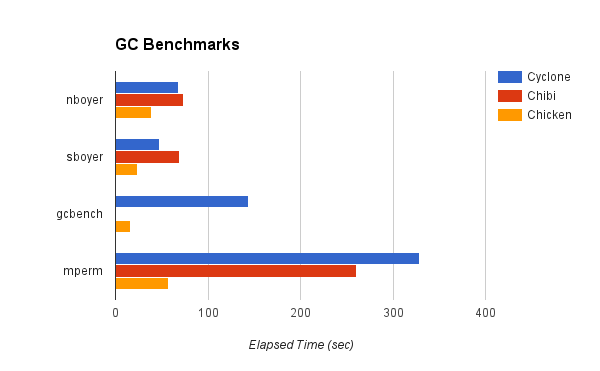
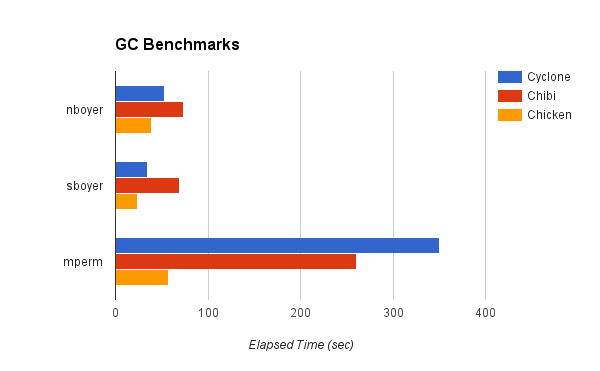
Updated benchmarks

Changed region(s): [[0.09, 0.593, 0.75, 0.8005], [0.09, 0.2075, 0.42, 0.5633], [0.09, 0.5633, 0.18, 0.593]]

diff --git a/docs/Benchmarks.md b/docs/Benchmarks.md
@@ -10,18 +10,18 @@ The following [benchmarks from Larceny](http://www.larcenists.org/benchmarksGenu
 
 Benchmark | Cyclone | Chibi | Chicken
 --------- | ------- | ----- | -------
-browse    | 77      | 439   | 30
-deriv     | 39      | 212   | 13
-destruc   | 136     | 197   | 20
-diviter   | 51      | 122.9 | 8
-divrec    | 70      | 108   | 29
-puzzle    | 184     | Timeout     | 32
-triangl   | 95      | 201   | 26.6
-tak       | 70      | 105   | 28.9
-takl      | 132     | Timeout     | 78.7
-ntakl     | 152     | 193   | 77.9
-cpstak    | 92      | Timeout     | 35
-ctak      | 7.9     | Timeout     | 8.6
+browse    | 58.715  | 439   | 30
+deriv     | 32.564  | 212   | 13
+destruc   | 125.564 | 197   | 20
+diviter   | 15.359  | 122.9 | 8
+divrec    | 23.9    | 108   | 29
+puzzle    | 147.783 | Timeout     | 32
+triangl   | 83.075  | 201   | 26.6
+tak       | 72.591  | 105   | 28.9
+takl      | 38.987  | Timeout     | 78.7
+ntakl     | 38.352  | 193   | 77.9
+cpstak    | 87.553  | Timeout     | 35
+ctak      | 7.465   | Timeout     | 8.6
 
 ## Kernighan and Van Wyk Benchmarks
 
@@ -29,13 +29,13 @@ ctak      | 7.9     | Timeout     | 8.6
 
 Benchmark | Cyclone | Chibi | Chicken
 --------- | ------- | ----- | -------
-ack       | 288     | 161   | 116
-array1    | 167     | 130   | 29.4
-string    | 1       | 8.478 | 1.584
-sum1      | 27      | 74    | 7.737
-cat       | 43.669  | 132   | 55
-tail      | 367     | 674   | -
-wc        | 202     | 1072  | 36.4
+ack       | 267.918 | 161   | 116
+array1    | 162.611 | 130   | 29.4
+string    | 1.068   | 8.478 | 1.584
+sum1      | 21.753  | 74    | 7.737
+cat       | 36.102  | 132   | 55
+tail      | 68.528  | 674   | -
+wc        | 176.039 | 1072  | 36.4
 
 ## Garbage Collection Benchmarks
 
@@ -43,7 +43,6 @@ wc        | 202     | 1072  | 36.4
 
 Benchmark | Cyclone | Chibi | Chicken
 --------- | ------- | ----- | -------
-nboyer    | 67.783  | 73.516  | 39.377
-sboyer    | 48.044  | 69.243  | 23.628
-gcbench   | 143.478 | Timeout       | 16.75
-mperm     | 328.741 | 260.358 | 57.5
+nboyer    | 53.203  | 73.516  | 39.377
+sboyer    | 34.873  | 69.243  | 23.628
+mperm     | 350.379 | 260.358 | 57.5
